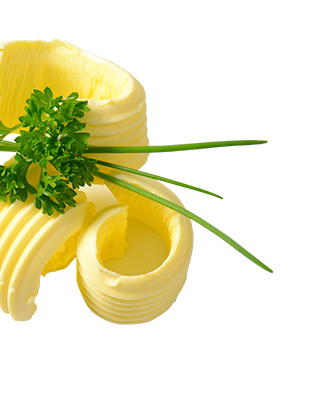
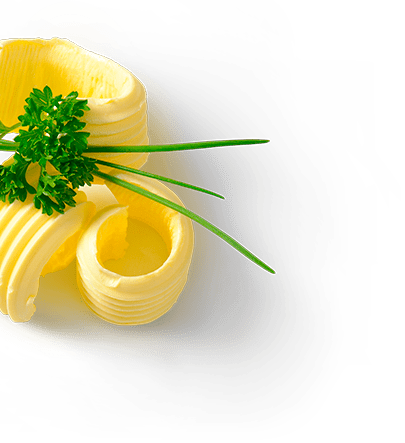
Правки №6 - Замена картинок с фоном

diff --git a/css/style.css b/css/style.css
@@ -1976,14 +1976,17 @@ input[type="text"]:focus {
     .cheese-circle .icon.hover {
       opacity: 1; }
     .cheese-circle .icon[data-number='item1'] {
+      opacity: 1;
       width: 121.694473854px;
       height: 119.929960903px;
       top: 197.530864198px;
-      left: 317.46031746px;
+      left: 325.460317px;
       background-image: url("../images/cheese/1.png");
-      transform: rotate(53deg); }
+      transform: rotate(48deg); }
+      .cheese-circle .icon[data-number='item1'].hover, .cheese-circle .icon[data-number='item1'].active {
+        background-image: url("../images/cheese/1_hover.png"); }
       .cheese-circle .icon[data-number='item1'].active {
-        transform: rotate(53deg) translateX(-100px); }
+        transform: rotate(48deg) translateX(-110px) translateY(-7px); }
     .cheese-circle .icon[data-number='item2'] {
       width: 132.275132275px;
       height: 114.639458902px;
@@ -2822,8 +2825,8 @@ input[type="text"]:focus {
   .back-img__maslo {
     left: -125px;
     bottom: -45px;
-    width: 424px;
-    height: 358px;
+    width: 550px;
+    height: 400px;
     background: url("../images/slack/maslo.png") no-repeat; }
     @media only screen and (max-width: 1200px) {
       .back-img__maslo {
@@ -3910,8 +3913,8 @@ input[type="text"]:focus {
     z-index: -1;
     left: 0;
     top: 980px;
-    width: 324px;
-    height: 400px;
+    width: 405px;
+    height: 443px;
     background: url("../images/background/butter-about.png") no-repeat; }
     @media only screen and (max-width: 1680px) {
       .background-page__butter_about {
@@ -3921,8 +3924,8 @@ input[type="text"]:focus {
     z-index: -1;
     left: 0;
     top: 150px;
-    width: 366px;
-    height: 400px;
+    width: 447px;
+    height: 434px;
     background: url("../images/background/butter-contact.png") no-repeat; }
     @media only screen and (max-width: 1680px) {
       .background-page__butter_contact {
@@ -4328,8 +4331,8 @@ input[type="text"]:focus {
     z-index: -2;
     right: 0;
     bottom: 750px;
-    width: 309px;
-    height: 400px;
+    width: 362px;
+    height: 409px;
     background: url("../images/background/butter-right_event.png") no-repeat; }
     @media only screen and (max-width: 1660px) {
       .background-page__butter-right_event {

diff --git a/_frontend/blocks/background-page/style.scss b/_frontend/blocks/background-page/style.scss
@@ -57,8 +57,8 @@
             z-index: -1;
             left: 0;
             top: 980px;
-            width: 324px;
-            height: 400px;
+            width: 405px;
+            height: 443px;
             background: url('../images/background/butter-about.png') no-repeat;
             @media only screen and (max-width: 1680px) {
                 display: none;
@@ -69,8 +69,8 @@
             z-index: -1;
             left: 0;
             top: 150px;
-            width: 366px;
-            height: 400px;
+            width: 447px;
+            height: 434px;
             background: url('../images/background/butter-contact.png') no-repeat;
             @media only screen and (max-width: 1680px) {
                 display: none;
@@ -541,8 +541,8 @@
             z-index: -2;
             right: 0;
             bottom: 750px;
-            width: 309px;
-            height: 400px;
+            width: 362px;
+            height: 409px;
             background: url('../images/background/butter-right_event.png') no-repeat;
             @media only screen and (max-width: 1660px) {
                 display: none;

diff --git a/_frontend/blocks/cheese/style.sass b/_frontend/blocks/cheese/style.sass
@@ -275,19 +275,22 @@ $width: 1000px
 			opacity: 1
 
 		&[data-number='item1']
-
+			opacity: 1
 			width: $width/8.2173
 			height: $width/8.3382
 
-			top: $width/5.0625
-			left: $width/3.15
+			top: 197.530864198px
+			left: 325.460317px
 
 			background-image: url("../images/cheese/1.png")
 
-			transform: rotate(53deg)
-
+			transform: rotate(48deg)
+			&.hover,
 			&.active
-				transform: rotate(53deg) translateX(-$width/10)
+				background-image: url("../images/cheese/1_hover.png")
+			&.active
+				transform: rotate(48deg) translateX(-110px) translateY(-7px)
+
 				
 
 		&[data-number='item2']

diff --git a/_frontend/blocks/back-img/style.scss b/_frontend/blocks/back-img/style.scss
@@ -25,8 +25,8 @@
     &__maslo {
         left: -125px;
         bottom: -45px;
-        width: 424px;
-        height: 358px;
+        width: 550px;
+        height: 400px;
         background: url("../images/slack/maslo.png") no-repeat;
         @include media(xl) {
             display: none;
